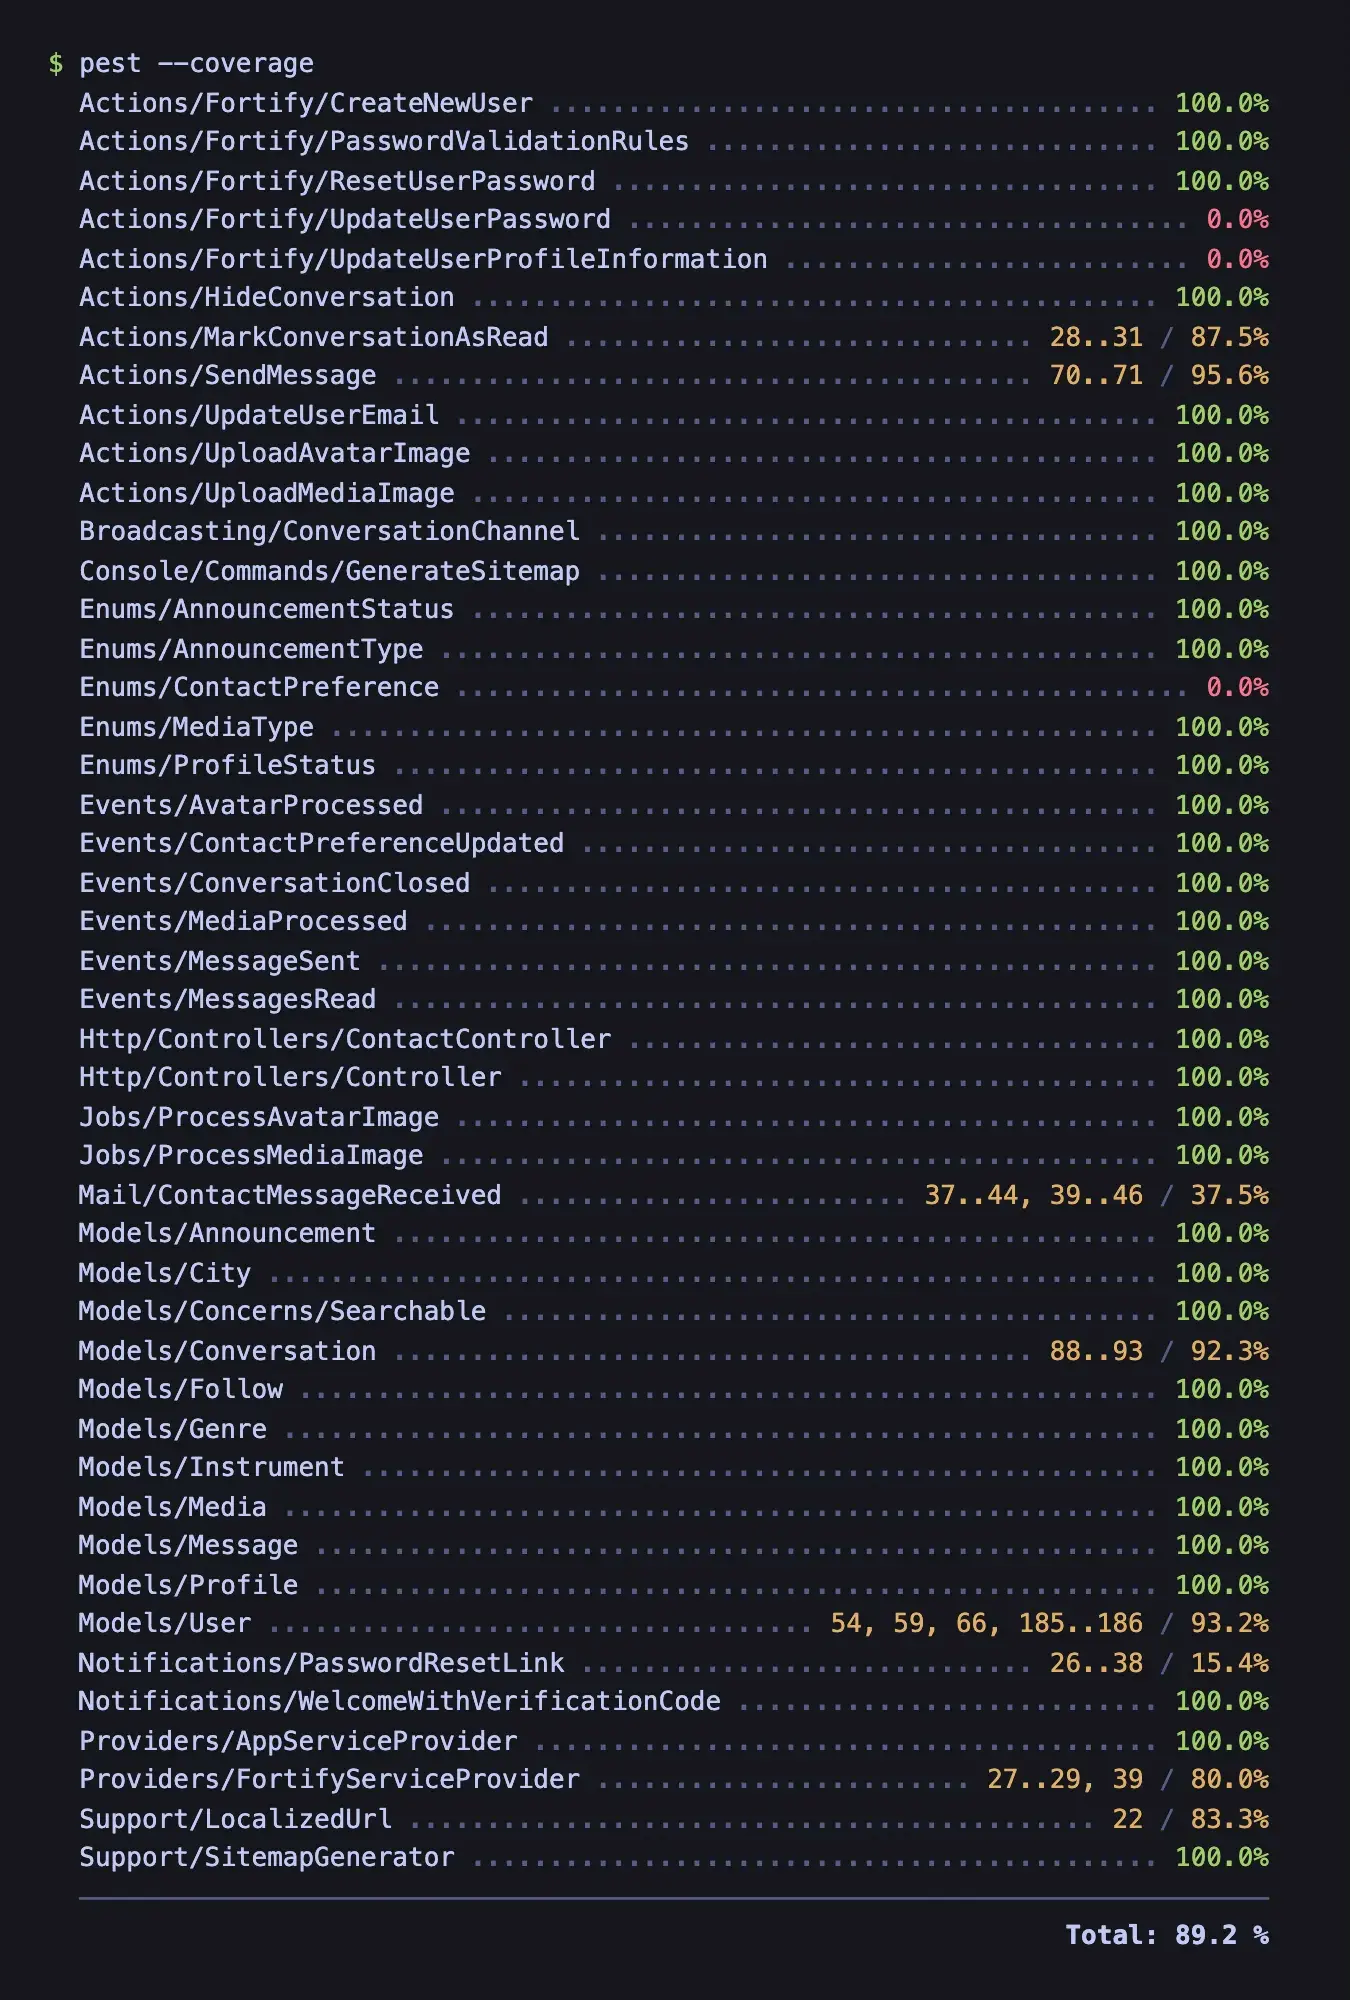
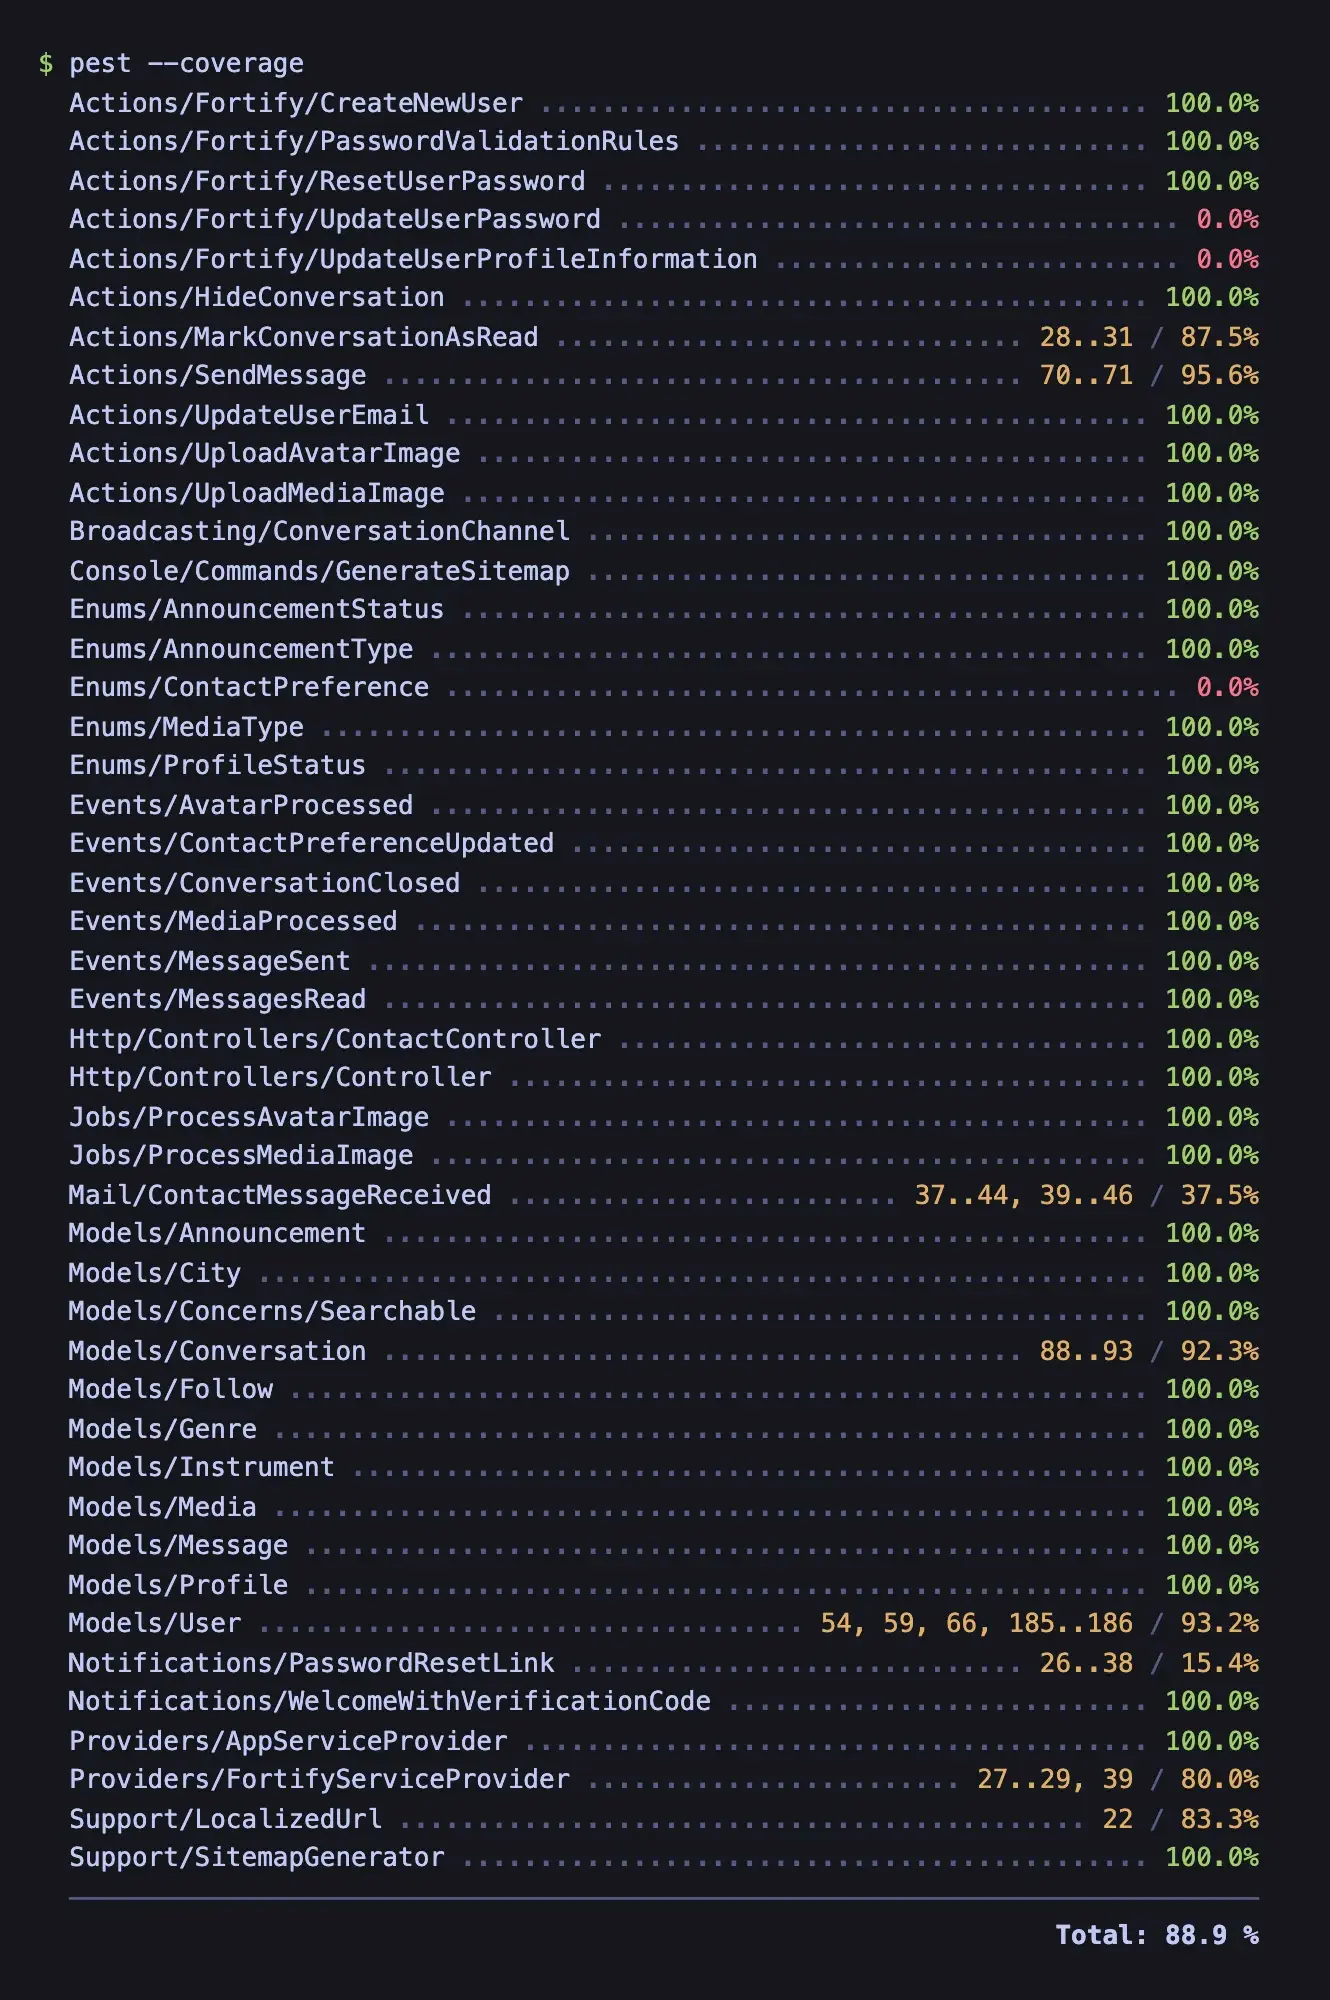
Actualise les tests automatisés : 619 tests et couverture réauditée (88,9 %)

diff --git a/pages/tests-automatises.html b/pages/tests-automatises.html
@@ -1,4 +1,4 @@
-{{#> page-layout title="Tests automatisés" description="Tests automatisés de Giggr : 629 tests Pest, dont 15 navigateur (Pest browser) et 614 serveur, répartis par domaine, avec extraits commentés et stratégie de couverture." num="05" heading="Tests automatisés" lede="629 tests Pest exécutés sur Giggr : 15 tests navigateur (Pest browser, vrai Chromium) et 614 tests serveur, répartis par domaine et illustrés d'extraits commentés." prevHref="serveur.html" prevNum="04" prevTitle="Performances serveur" nextHref="opquast.html" nextNum="06" nextTitle="Audit Opquast" }}
+{{#> page-layout title="Tests automatisés" description="Tests automatisés de Giggr : 619 tests Pest, dont 15 navigateur (Pest browser) et 604 serveur, répartis par domaine, avec extraits commentés et stratégie de couverture." num="05" heading="Tests automatisés" lede="619 tests Pest exécutés sur Giggr : 15 tests navigateur (Pest browser, vrai Chromium) et 604 tests serveur, répartis par domaine et illustrés d'extraits commentés." prevHref="serveur.html" prevNum="04" prevTitle="Performances serveur" nextHref="opquast.html" nextNum="06" nextTitle="Audit Opquast" }}
 
 <section class="border-b border-hairline">
         <div class="mx-auto max-w-6xl px-6 md:px-8 py-16 md:py-20">
@@ -9,9 +9,9 @@
                 La suite de tests de Giggr s'écrit avec Pest. Le guide impose au
                 minimum 15 tests navigateur (tests d'interface) et 15 tests serveur,
                 soit 30 au total. Giggr atteint la cible côté navigateur et la dépasse
-                largement côté serveur : <strong>629 tests</strong> au total, dont
+                largement côté serveur : <strong>619 tests</strong> au total, dont
                 <strong>15 tests navigateur</strong> qui pilotent l'interface réelle
-                dans Chromium via Pest browser, et <strong>614 tests serveur</strong>
+                dans Chromium via Pest browser, et <strong>604 tests serveur</strong>
                 (feature et unit) qui valident la logique applicative. Le détail par
                 domaine est relevé ci-dessous.
             </p>
@@ -19,7 +19,7 @@
             <dl class="mt-8 grid grid-cols-2 gap-px border border-hairline-strong bg-hairline-strong sm:grid-cols-4">
                 <div class="bg-paper p-4">
                     <dt class="text-xs uppercase tracking-wide text-muted">Total</dt>
-                    <dd class="mt-1 font-mono text-2xl tabular-nums">629</dd>
+                    <dd class="mt-1 font-mono text-2xl tabular-nums">619</dd>
                 </div>
                 <div class="bg-paper p-4">
                     <dt class="text-xs uppercase tracking-wide text-muted">Navigateur</dt>
@@ -27,7 +27,7 @@
                 </div>
                 <div class="bg-paper p-4">
                     <dt class="text-xs uppercase tracking-wide text-muted">Serveur</dt>
-                    <dd class="mt-1 font-mono text-2xl tabular-nums">614</dd>
+                    <dd class="mt-1 font-mono text-2xl tabular-nums">604</dd>
                 </div>
                 <div class="bg-paper p-4">
                     <dt class="text-xs uppercase tracking-wide text-muted">Minimum guide</dt>
@@ -54,17 +54,17 @@
                     <tr>
                         <td data-label="Famille">Serveur</td>
                         <td data-label="Domaine">Composants Livewire</td>
-                        <td data-label="Tests" class="font-mono tabular-nums">217</td>
+                        <td data-label="Tests" class="font-mono tabular-nums">214</td>
                     </tr>
                     <tr>
                         <td data-label="Famille">Serveur</td>
                         <td data-label="Domaine">Modèles et relations</td>
-                        <td data-label="Tests" class="font-mono tabular-nums">136</td>
+                        <td data-label="Tests" class="font-mono tabular-nums">132</td>
                     </tr>
                     <tr>
                         <td data-label="Famille">Serveur</td>
                         <td data-label="Domaine">Pages et parcours</td>
-                        <td data-label="Tests" class="font-mono tabular-nums">88</td>
+                        <td data-label="Tests" class="font-mono tabular-nums">85</td>
                     </tr>
                     <tr>
                         <td data-label="Famille">Serveur</td>
@@ -124,7 +124,7 @@
                     <tr>
                         <td data-label="Famille" class="font-medium">Total</td>
                         <td data-label="Domaine" class="font-medium">Suite complète Pest</td>
-                        <td data-label="Tests" class="font-mono tabular-nums font-medium">629</td>
+                        <td data-label="Tests" class="font-mono tabular-nums font-medium">619</td>
                     </tr>
                     </tbody>
                 </table>
@@ -229,8 +229,8 @@
                 La couverture est mesurée avec Xdebug et
                 <code class="font-mono text-sm">pest --coverage</code>, sur le namespace
                 <code class="font-mono text-sm">app/</code>, c'est-à-dire la logique
-                applicative : modèles, actions, jobs, événements, notifications. Les 614
-                tests serveur couvrent <strong>89,2 % des lignes</strong>. Les composants
+                applicative : modèles, actions, jobs, événements, notifications. Les 604
+                tests serveur couvrent <strong>88,9 % des lignes</strong>. Les composants
                 de vue Livewire vivent hors de <code class="font-mono text-sm">app/</code>
                 et sont validés séparément, tests navigateur compris (voir la répartition
                 plus haut).
@@ -239,13 +239,13 @@
             <dl class="mt-8 grid grid-cols-3 gap-px border border-hairline-strong bg-hairline-strong">
                 <div class="bg-paper p-4">
                     <dt class="text-xs uppercase tracking-wide text-muted">Lignes</dt>
-                    <dd class="mt-1 font-mono text-2xl tabular-nums">89,2 %</dd>
-                    <dd class="font-mono text-xs text-muted tabular-nums">604 / 677</dd>
+                    <dd class="mt-1 font-mono text-2xl tabular-nums">88,9 %</dd>
+                    <dd class="font-mono text-xs text-muted tabular-nums">586 / 659</dd>
                 </div>
                 <div class="bg-paper p-4">
                     <dt class="text-xs uppercase tracking-wide text-muted">Fonctions</dt>
-                    <dd class="mt-1 font-mono text-2xl tabular-nums">89,9 %</dd>
-                    <dd class="font-mono text-xs text-muted tabular-nums">134 / 149</dd>
+                    <dd class="mt-1 font-mono text-2xl tabular-nums">89,7 %</dd>
+                    <dd class="font-mono text-xs text-muted tabular-nums">130 / 145</dd>
                 </div>
                 <div class="bg-paper p-4">
                     <dt class="text-xs uppercase tracking-wide text-muted">Classes</dt>
@@ -307,8 +307,8 @@
                     </tr>
                     <tr>
                         <td data-label="Couche">Models</td>
-                        <td data-label="Lignes couvertes" class="font-mono text-sm tabular-nums">234 / 241</td>
-                        <td data-label="Couverture" class="font-mono tabular-nums">97,1 %</td>
+                        <td data-label="Lignes couvertes" class="font-mono text-sm tabular-nums">216 / 223</td>
+                        <td data-label="Couverture" class="font-mono tabular-nums">96,9 %</td>
                     </tr>
                     <tr>
                         <td data-label="Couche">Notifications</td>
@@ -327,8 +327,8 @@
                     </tr>
                     <tr>
                         <td data-label="Couche" class="font-medium">Total app/</td>
-                        <td data-label="Lignes couvertes" class="font-mono text-sm tabular-nums font-medium">604 / 677</td>
-                        <td data-label="Couverture" class="font-mono tabular-nums font-medium">89,2 %</td>
+                        <td data-label="Lignes couvertes" class="font-mono text-sm tabular-nums font-medium">586 / 659</td>
+                        <td data-label="Couverture" class="font-mono tabular-nums font-medium">88,9 %</td>
                     </tr>
                     </tbody>
                 </table>
@@ -340,7 +340,7 @@
                 lien de réinitialisation de mot de passe : du rendu surtout déclenché par
                 Fortify ou par des parcours couverts côté navigateur, peu sollicité par
                 les tests serveur. Le cœur métier reste couvert de bout en bout : modèles
-                à 97,1 %, événements, jobs et couche HTTP à 100 %.
+                à 96,9 %, événements, jobs et couche HTTP à 100 %.
             </p>
 
             <figure class="capture mt-8">
@@ -353,7 +353,7 @@
                     loading="lazy"
                 />
                 <figcaption class="capture__caption">
-                    Sortie de <code class="font-mono">pest --coverage</code> sur la suite serveur (namespace app/). Total : 89,2 % des lignes. Relevé le 8 juin 2026.
+                    Sortie de <code class="font-mono">pest --coverage</code> sur la suite serveur (namespace app/). Total : 88,9 % des lignes. Relevé le 8 juin 2026.
                 </figcaption>
             </figure>
         </div>

diff --git a/index.html b/index.html
@@ -69,7 +69,7 @@
                     </div>
                     <div class="bg-paper p-5 pl-0">
                         <p class="label">Tests</p>
-                        <p class="mt-3 font-mono text-4xl leading-none text-ink/75 tnum" data-count="629">629</p>
+                        <p class="mt-3 font-mono text-4xl leading-none text-ink/75 tnum" data-count="619">619</p>
                         <div class="gauge mt-4"><span class="gauge__fill" data-gauge="100"></span></div>
                         <p class="mt-3 font-mono text-xs text-muted">Pest, cible ≥ 30</p>
                     </div>
